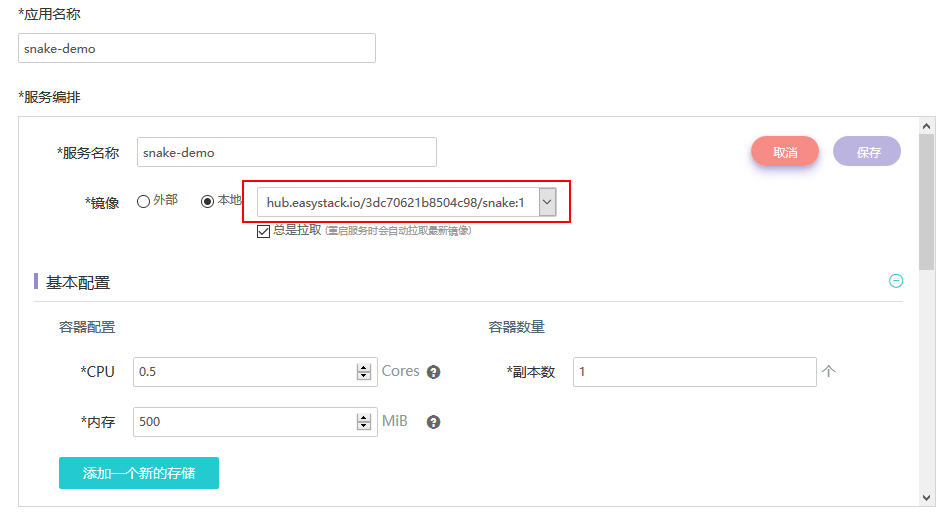
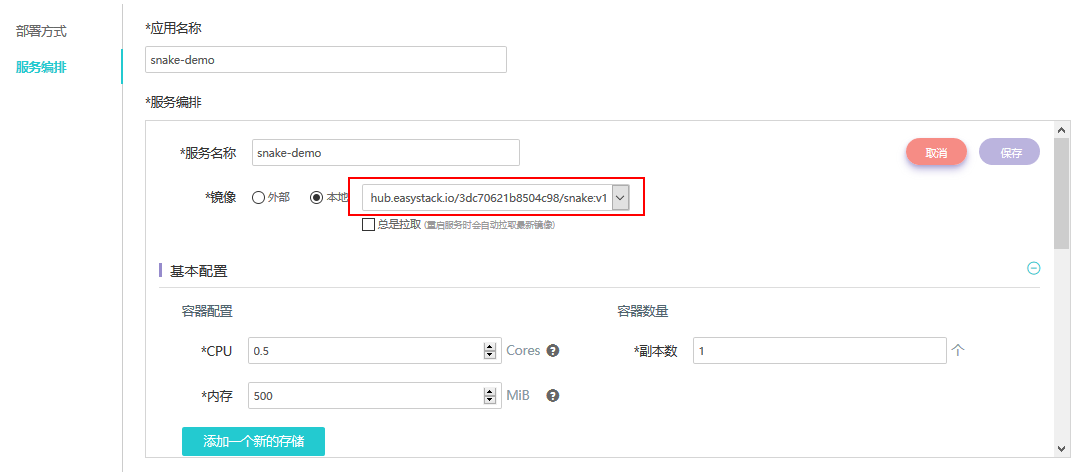
commit

diff --git a/1_基础实践/3_CICD场景实践-JavaScript应用.md b/1_基础实践/3_CICD场景实践-JavaScript应用.md
@@ -171,22 +171,22 @@ podTemplate(name: 'jnlp', label: 'jnlp', namesapce: 'default', cloud: 'kubernete
     stage('CICD for Snake Game demo') {
         container('jnlp') {
             stage("Clone source code of Snake game") {
-                //请按需修改源代码库地址
-                git 'http://172.16.6.30:30080/easystack/snake-demo.git'
+                //请按需修改Git源代码库地址
+                git 'http://172.16.6.28:30080/easystack/snake-demo.git'
             }
                       
             stage('Build & push docker image') {
                 //请按需修改镜像仓库的账号和密码
                 sh """
                     docker login -u 3dc70621b8504c98 -p Tcdf4f05247d79dd7 hub.easystack.io  
-                    docker build -t hub.easystack.io/3dc70621b8504c98/snake:${BUILD_NUMBER} . 
-                    docker push hub.easystack.io/3dc70621b8504c98/snake:${BUILD_NUMBER}
+                    docker build -t hub.easystack.io/3dc70621b8504c98/snake:v${BUILD_NUMBER} . 
+                    docker push hub.easystack.io/3dc70621b8504c98/snake:v${BUILD_NUMBER}
                 """
             }
             
             //stage('Deploy app to EKS') {
                 //请按需修改Deployment名称和Snake镜像名称
-                //sh """kubectl set image deployment/snake-snake-e8fluud7 snake-snake-e8fluud7=hub.easystack.io/3dc70621b8504c98/snake:${BUILD_NUMBER}"""
+                //sh """kubectl set image deployment/snake-demo-snake-demo-cao7ea5d snake-demo-snake-demo-cao7ea5d=hub.easystack.io/3dc70621b8504c98/snake:v${BUILD_NUMBER}"""
             //}
         }
     }
@@ -196,7 +196,7 @@ podTemplate(name: 'jnlp', label: 'jnlp', namesapce: 'default', cloud: 'kubernete
 其中：  
 
 1）```image: 'hub.easystack.io/3dc70621b8504c98/jenkins-slave:v1'```指定之前所构建的Jenkins Slave镜像。  
-2）```git 'http://172.16.6.30:30080/easystack/snake-demo.git'```将Snake Demo源代码从GitLab中拉取到Jenkins Slave Pod中，请注意按需修改源代码项目地址。  
+2）```git 'http://172.16.6.28:30080/easystack/snake-demo.git'```将Snake Demo源代码从GitLab中拉取到Jenkins Slave Pod中，请注意按需修改源代码项目地址。  
 3）下面的命令分别实现登录镜像仓库、构建Snake Demo镜像以及上传镜像：  
 ```
  stage('Build & push docker image') {
@@ -212,6 +212,9 @@ podTemplate(name: 'jnlp', label: 'jnlp', namesapce: 'default', cloud: 'kubernete
 
 在Blue Ocean界面中可以查看Pipeline执行进度：  
 ![](Images/3/check-initial-pipeline.png)  
+
+可以在EKS界面中看到正在执行Pipeline的Jenkins Slave Pod：  
+![](Images/3/cxxxx.png)  
 
 在EKS的镜像仓库中查看第一次构建并上传的Snake Demo镜像： 
 ![](Images/3/check-snake-image.png) 
@@ -240,7 +243,7 @@ podTemplate(name: 'jnlp', label: 'jnlp', namesapce: 'default', cloud: 'kubernete
 ```
             stage('Deploy app to EKS') {
                 //请按需修改Deployment名称和Snake镜像名称
-                sh """kubectl set image deployment/snake-snake-e8fluud7 snake-snake-e8fluud7=hub.easystack.io/3dc70621b8504c98/snake:${BUILD_NUMBER}"""
+                sh """kubectl set image deployment/snake-demo-snake-demo-cao7ea5d snake-demo-snake-demo-cao7ea5d=hub.easystack.io/3dc70621b8504c98/snake:v${BUILD_NUMBER}"""
             }
 ```
 其中kubectl set image命令可以更新Deployment所使用的镜像版本，```deployment```参数需指定为Snake Demo应用的Deployment名称。   
@@ -286,4 +289,4 @@ podTemplate(name: 'jnlp', label: 'jnlp', namesapce: 'default', cloud: 'kubernete
 ![](Images/3/check-updated-app.png) 
 
 同时，我们也可以在EKS界面查看Kubernetes Deployment所采用的镜像已经完成更新。   
-![](Images/3/deployment-image-update.png)  
+![](Images/3/check-deployment-image-update.png)  
